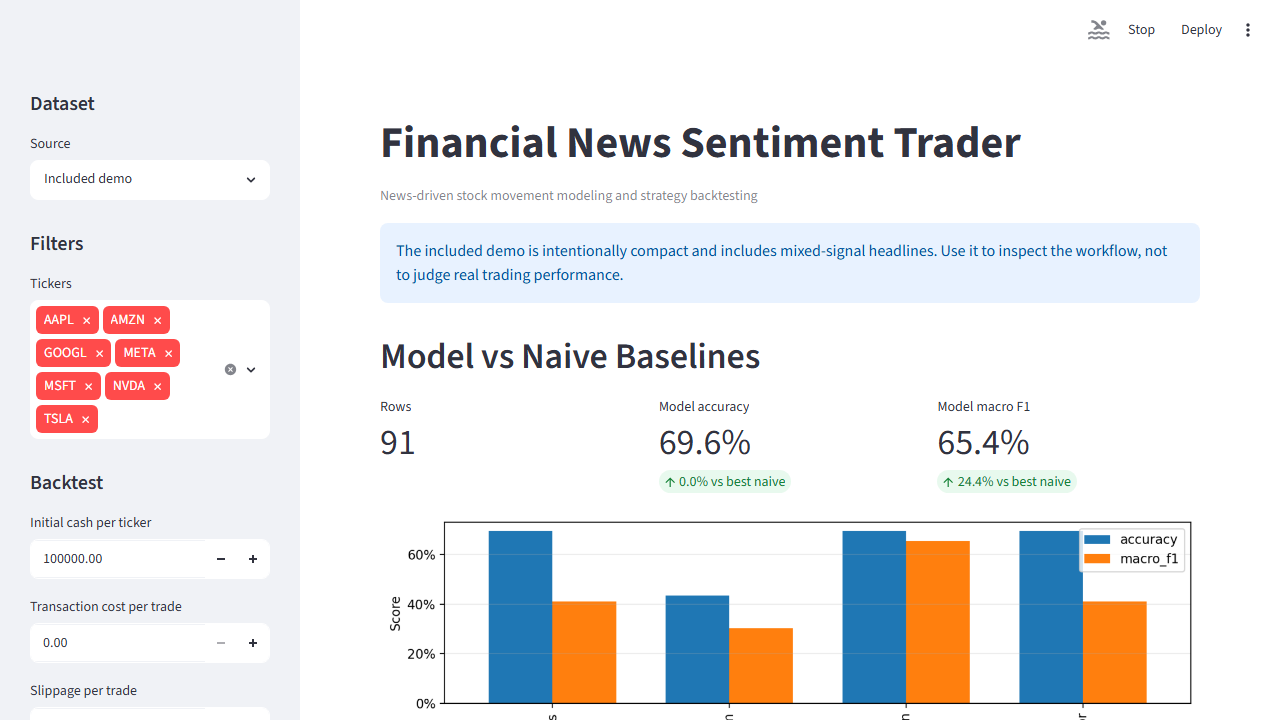
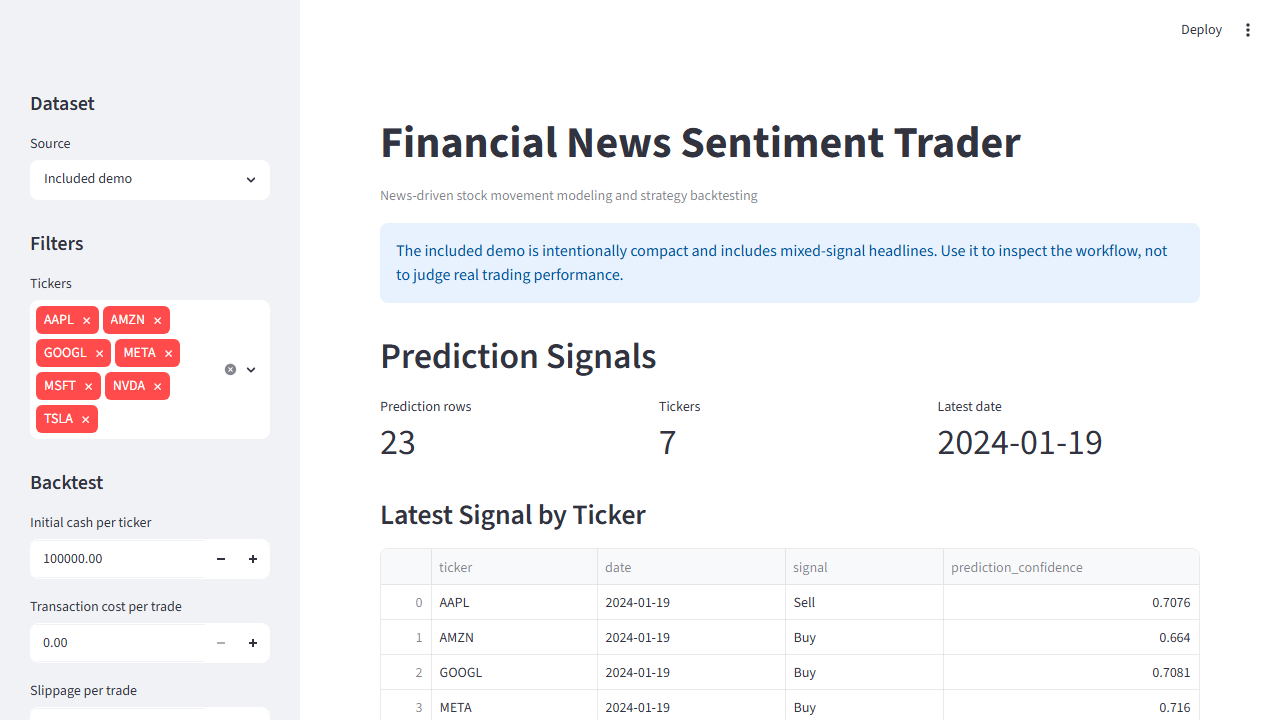
Prioritize dashboard signals and excess returns

diff --git a/src/trading_sentiment/app.py b/src/trading_sentiment/app.py
@@ -57,6 +57,23 @@ def show_grouped_bar_chart(
     st.pyplot(fig, clear_figure=True)
 
 
+def show_excess_return_chart(summary: pd.DataFrame) -> None:
+    if summary.empty or "excess_return" not in summary.columns:
+        return
+
+    rows = summary.sort_values("excess_return")
+    colors = ["#c2410c" if value < 0 else "#15803d" for value in rows["excess_return"]]
+    fig, ax = plt.subplots(figsize=(9, 4))
+    bars = ax.barh(rows["ticker"], rows["excess_return"], color=colors)
+    ax.axvline(0, color="#334155", linewidth=1)
+    ax.set_xlabel("Strategy return minus buy/hold return")
+    ax.xaxis.set_major_formatter(PercentFormatter(1.0))
+    ax.grid(axis="x", alpha=0.25)
+    ax.bar_label(bars, labels=[f"{value:.1%}" for value in rows["excess_return"]], padding=4)
+    fig.tight_layout()
+    st.pyplot(fig, clear_figure=True)
+
+
 def build_metric_score_chart(metric_comparison: pd.DataFrame) -> pd.DataFrame:
     if metric_comparison.empty:
         return pd.DataFrame(columns=["model", "metric", "score"])
@@ -80,6 +97,28 @@ def build_prediction_signal_counts(predictions: pd.DataFrame) -> pd.DataFrame:
         .size()
         .reset_index(name="count")
         .sort_values(["ticker", "signal"])
+    )
+
+
+def build_latest_signals(predictions: pd.DataFrame) -> pd.DataFrame:
+    required_columns = {"ticker", "date", "predicted_label"}
+    if predictions.empty or not required_columns.issubset(predictions.columns):
+        return pd.DataFrame(columns=["ticker", "date", "signal"])
+
+    rows = predictions.copy()
+    rows["date"] = pd.to_datetime(rows["date"])
+    rows["signal"] = rows["predicted_label"].astype(int).map(SIGNAL_LABELS).fillna("Other")
+    display_columns = ["ticker", "date", "signal"]
+    if "prediction_confidence" in rows.columns:
+        display_columns.append("prediction_confidence")
+
+    return (
+        rows.sort_values(["ticker", "date"])
+        .groupby("ticker", as_index=False)
+        .tail(1)[display_columns]
+        .sort_values("ticker")
+        .assign(date=lambda frame: frame["date"].dt.date.astype(str))
+        .reset_index(drop=True)
     )
 
 
@@ -161,85 +200,41 @@ with st.sidebar:
         format="%.4f",
     )
 
-if metrics is not None:
-    metric_comparison = build_metric_comparison(metrics)
-    if not metric_comparison.empty:
-        st.header("Model vs Naive Baselines")
-        metric_cols = st.columns(3)
-        metric_cols[0].metric("Rows", int(metrics.get("row_count", 0)))
-        model_row = metric_comparison.iloc[0]
-        naive_rows = metric_comparison.iloc[1:]
-        best_naive_accuracy = naive_rows["accuracy"].max() if not naive_rows.empty else 0.0
-        best_naive_f1 = naive_rows["macro_f1"].max() if not naive_rows.empty else 0.0
-        metric_cols[1].metric(
-            "Model accuracy",
-            f"{model_row['accuracy']:.1%}",
-            delta=f"{model_row['accuracy'] - best_naive_accuracy:.1%} vs best naive",
-        )
-        metric_cols[2].metric(
-            "Model macro F1",
-            f"{model_row['macro_f1']:.1%}",
-            delta=f"{model_row['macro_f1'] - best_naive_f1:.1%} vs best naive",
-        )
-        metric_chart = build_metric_score_chart(metric_comparison)
-        show_grouped_bar_chart(
-            metric_chart,
-            index="model",
-            columns="metric",
-            values="score",
-            ylabel="Score",
-            percent_axis=True,
-        )
-        st.dataframe(metric_comparison, width="stretch")
+filtered_dataset = filter_by_tickers(dataset, selected_tickers) if dataset is not None else None
+filtered_predictions = (
+    filter_by_tickers(predictions, selected_tickers) if predictions is not None else None
+)
+
+st.header("Prediction Signals")
+if filtered_predictions is not None:
+    signal_cols = st.columns(3)
+    signal_cols[0].metric("Prediction rows", len(filtered_predictions))
+    signal_cols[1].metric("Tickers", filtered_predictions["ticker"].nunique())
+    signal_cols[2].metric("Latest date", str(filtered_predictions["date"].max()))
+
+    latest_signals = build_latest_signals(filtered_predictions)
+    st.subheader("Latest Signal by Ticker")
+    st.dataframe(latest_signals, width="stretch")
+
+    signal_counts = build_prediction_signal_counts(filtered_predictions)
+    if not signal_counts.empty:
+        st.subheader("Signal History")
+        st.bar_chart(signal_counts, x="ticker", y="count", color="signal")
 else:
-    st.info("No metrics found yet. Run `train-baseline` first.")
-
-left, right = st.columns(2)
-
-with left:
-    st.subheader("Modeling dataset")
-    if dataset is not None:
-        filtered_dataset = filter_by_tickers(dataset, selected_tickers)
-        st.metric("Rows", len(filtered_dataset))
-        if "ticker" in filtered_dataset.columns:
-            st.metric("Tickers", filtered_dataset["ticker"].nunique())
-        st.dataframe(filtered_dataset.head(25), width="stretch")
-    else:
-        st.info("No modeling dataset found yet. Run `build-dataset` first.")
-
-with right:
-    st.subheader("Prediction signals")
-    if predictions is not None:
-        filtered_predictions = filter_by_tickers(predictions, selected_tickers)
-        st.metric("Prediction rows", len(filtered_predictions))
-        signal_counts = build_prediction_signal_counts(filtered_predictions)
-        if not signal_counts.empty:
-            st.bar_chart(signal_counts, x="ticker", y="count", color="signal")
-        st.dataframe(filtered_predictions.head(25), width="stretch")
-    else:
-        st.info("No predictions found yet. Run `train-baseline` first.")
+    st.info("No predictions found yet. Run `train-baseline` first.")
 
 st.header("Backtest")
-if predictions is not None:
+if filtered_predictions is not None:
     try:
-        filtered_predictions = filter_by_tickers(predictions, selected_tickers)
         summary, trades, equity_curve = backtest_predictions(
             filtered_predictions,
             initial_cash=initial_cash,
             transaction_cost=transaction_cost,
             slippage_pct=slippage_pct,
         )
-        st.subheader("Strategy vs Buy/Hold")
+        st.subheader("Excess Return vs Buy/Hold")
         if not summary.empty:
-            return_chart = build_return_chart(summary)
-            show_grouped_bar_chart(
-                return_chart,
-                index="ticker",
-                columns="series",
-                values="return",
-                ylabel="Return",
-                percent_axis=True,
-            )
+            show_excess_return_chart(summary)
             summary_columns = [
                 "ticker",
                 "strategy_return",
@@ -252,7 +247,7 @@ if predictions is not None:
             visible_columns = [column for column in summary_columns if column in summary.columns]
             st.dataframe(summary[visible_columns], width="stretch")
 
-        st.subheader("Average Equity Curve")
+        st.subheader("Average Equity Curve: Strategy vs Buy/Hold")
         if not equity_curve.empty:
             average_equity = build_average_equity_curve(equity_curve)
             st.line_chart(average_equity, x="date", y="equity", color="series")
@@ -264,3 +259,49 @@ if predictions is not None:
         st.warning(f"Backtest is not ready: {exc}")
 else:
     st.info("Backtest results will appear after predictions are available.")
+
+left, right = st.columns(2)
+
+with left:
+    st.header("Modeling Dataset")
+    if filtered_dataset is not None:
+        st.metric("Rows", len(filtered_dataset))
+        if "ticker" in filtered_dataset.columns:
+            st.metric("Tickers", filtered_dataset["ticker"].nunique())
+        st.dataframe(filtered_dataset.head(25), width="stretch")
+    else:
+        st.info("No modeling dataset found yet. Run `build-dataset` first.")
+
+with right:
+    st.header("Model Accuracy")
+    if metrics is not None:
+        metric_comparison = build_metric_comparison(metrics)
+        if not metric_comparison.empty:
+            metric_cols = st.columns(3)
+            metric_cols[0].metric("Rows", int(metrics.get("row_count", 0)))
+            model_row = metric_comparison.iloc[0]
+            naive_rows = metric_comparison.iloc[1:]
+            best_naive_accuracy = naive_rows["accuracy"].max() if not naive_rows.empty else 0.0
+            best_naive_f1 = naive_rows["macro_f1"].max() if not naive_rows.empty else 0.0
+            metric_cols[1].metric(
+                "Accuracy",
+                f"{model_row['accuracy']:.1%}",
+                delta=f"{model_row['accuracy'] - best_naive_accuracy:.1%} vs best naive",
+            )
+            metric_cols[2].metric(
+                "Macro F1",
+                f"{model_row['macro_f1']:.1%}",
+                delta=f"{model_row['macro_f1'] - best_naive_f1:.1%} vs best naive",
+            )
+            metric_chart = build_metric_score_chart(metric_comparison)
+            show_grouped_bar_chart(
+                metric_chart,
+                index="model",
+                columns="metric",
+                values="score",
+                ylabel="Score",
+                percent_axis=True,
+            )
+            st.dataframe(metric_comparison, width="stretch")
+    else:
+        st.info("No metrics found yet. Run `train-baseline` first.")
